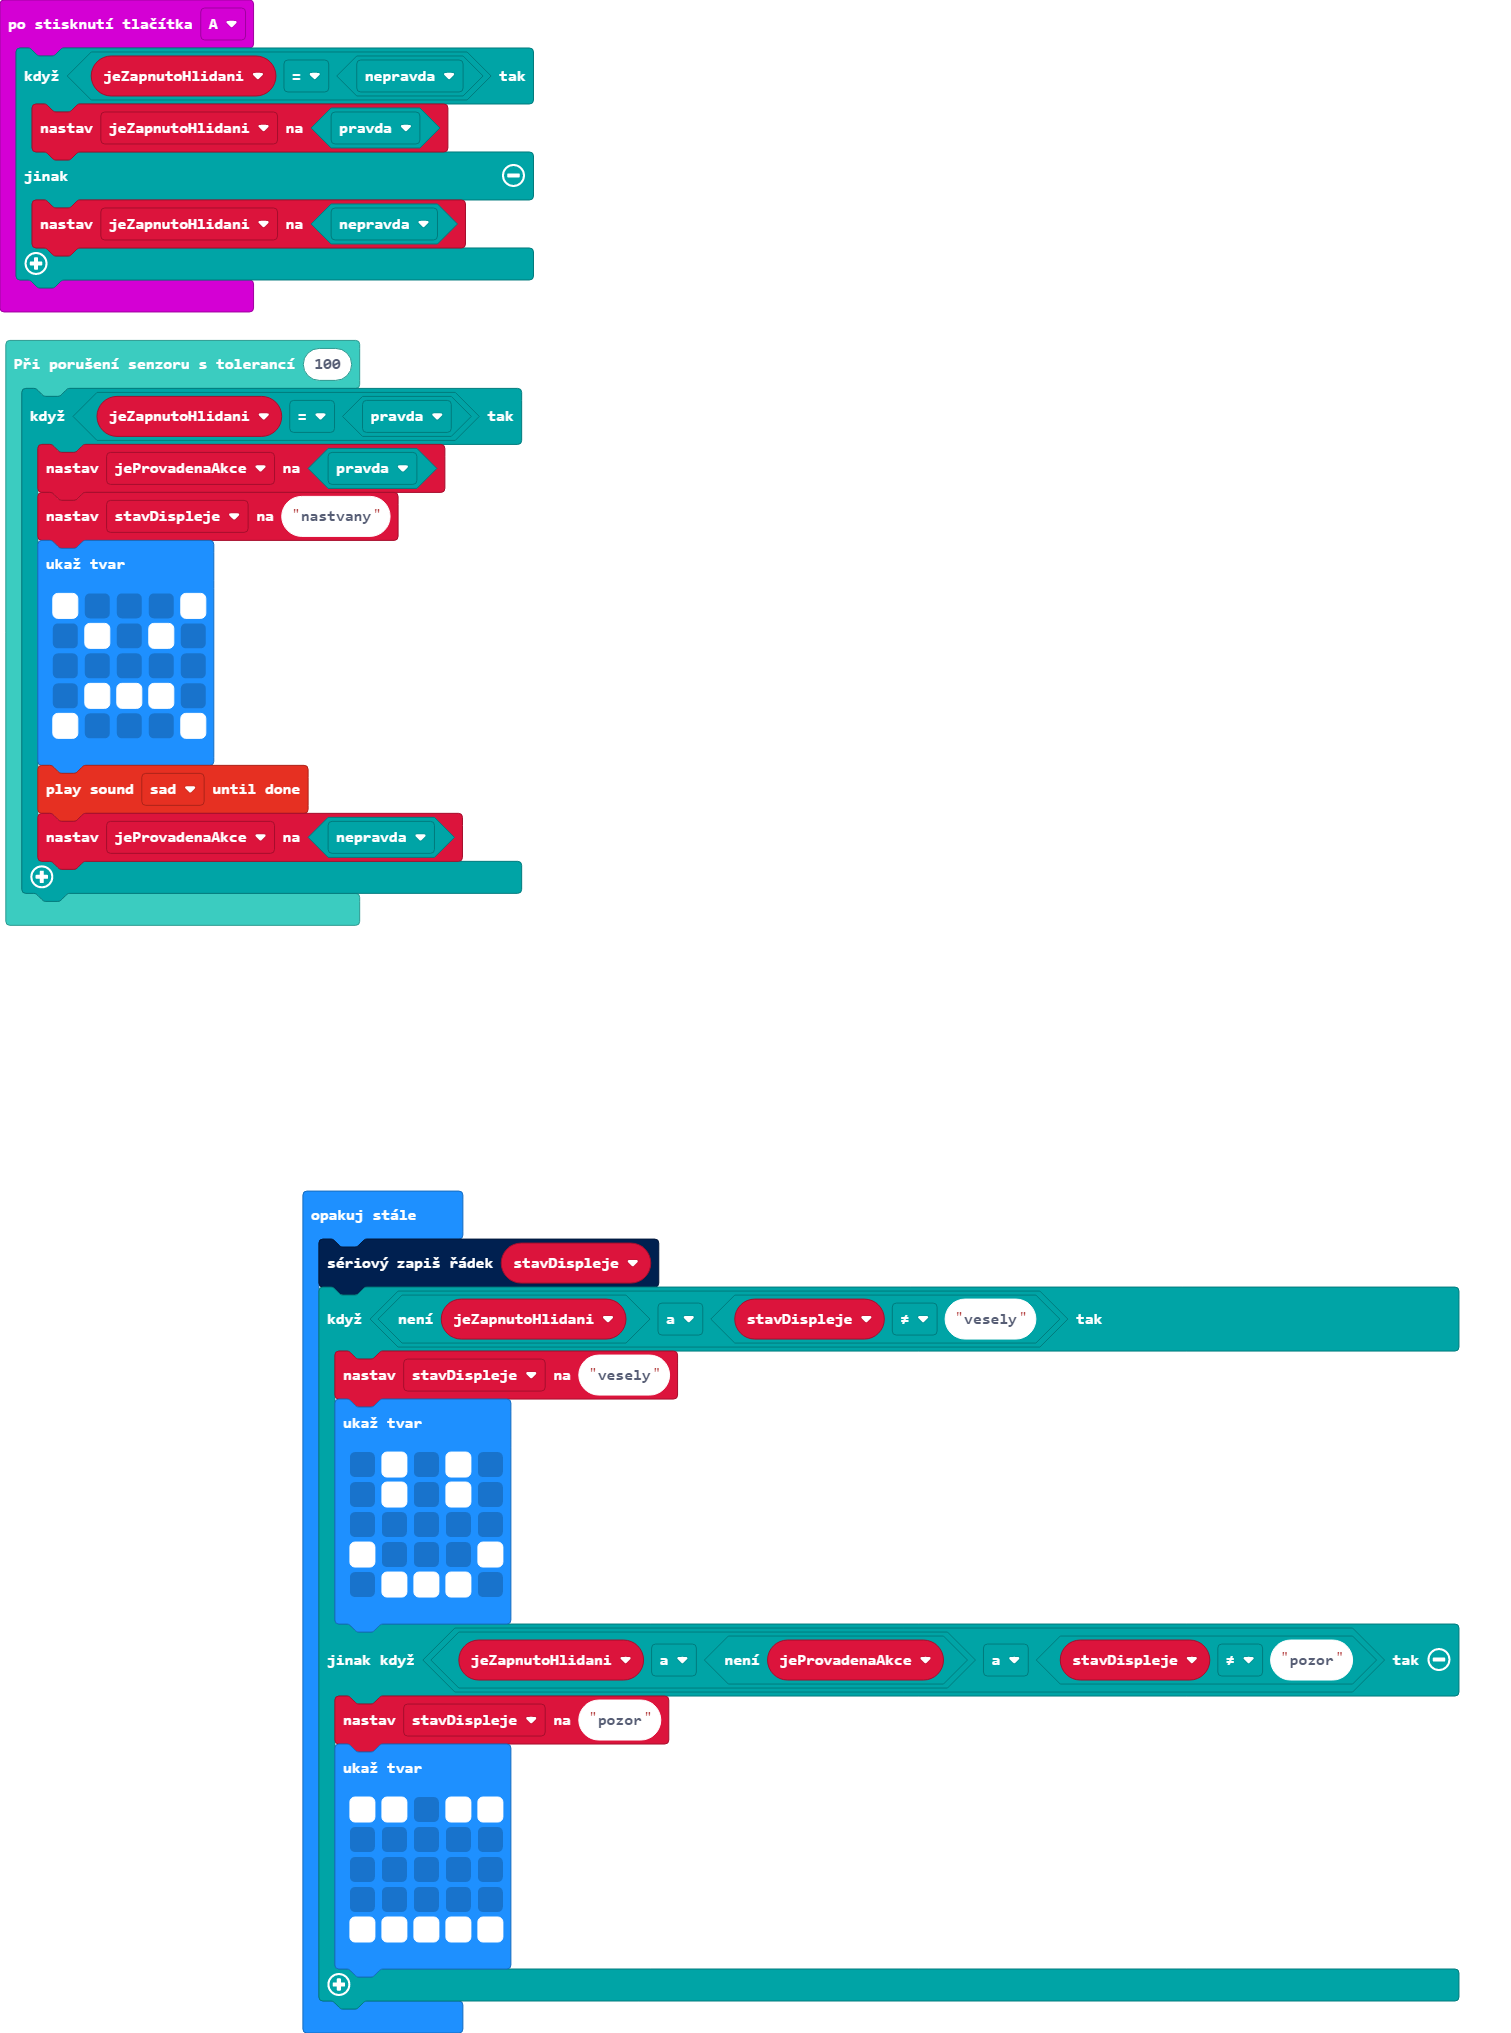
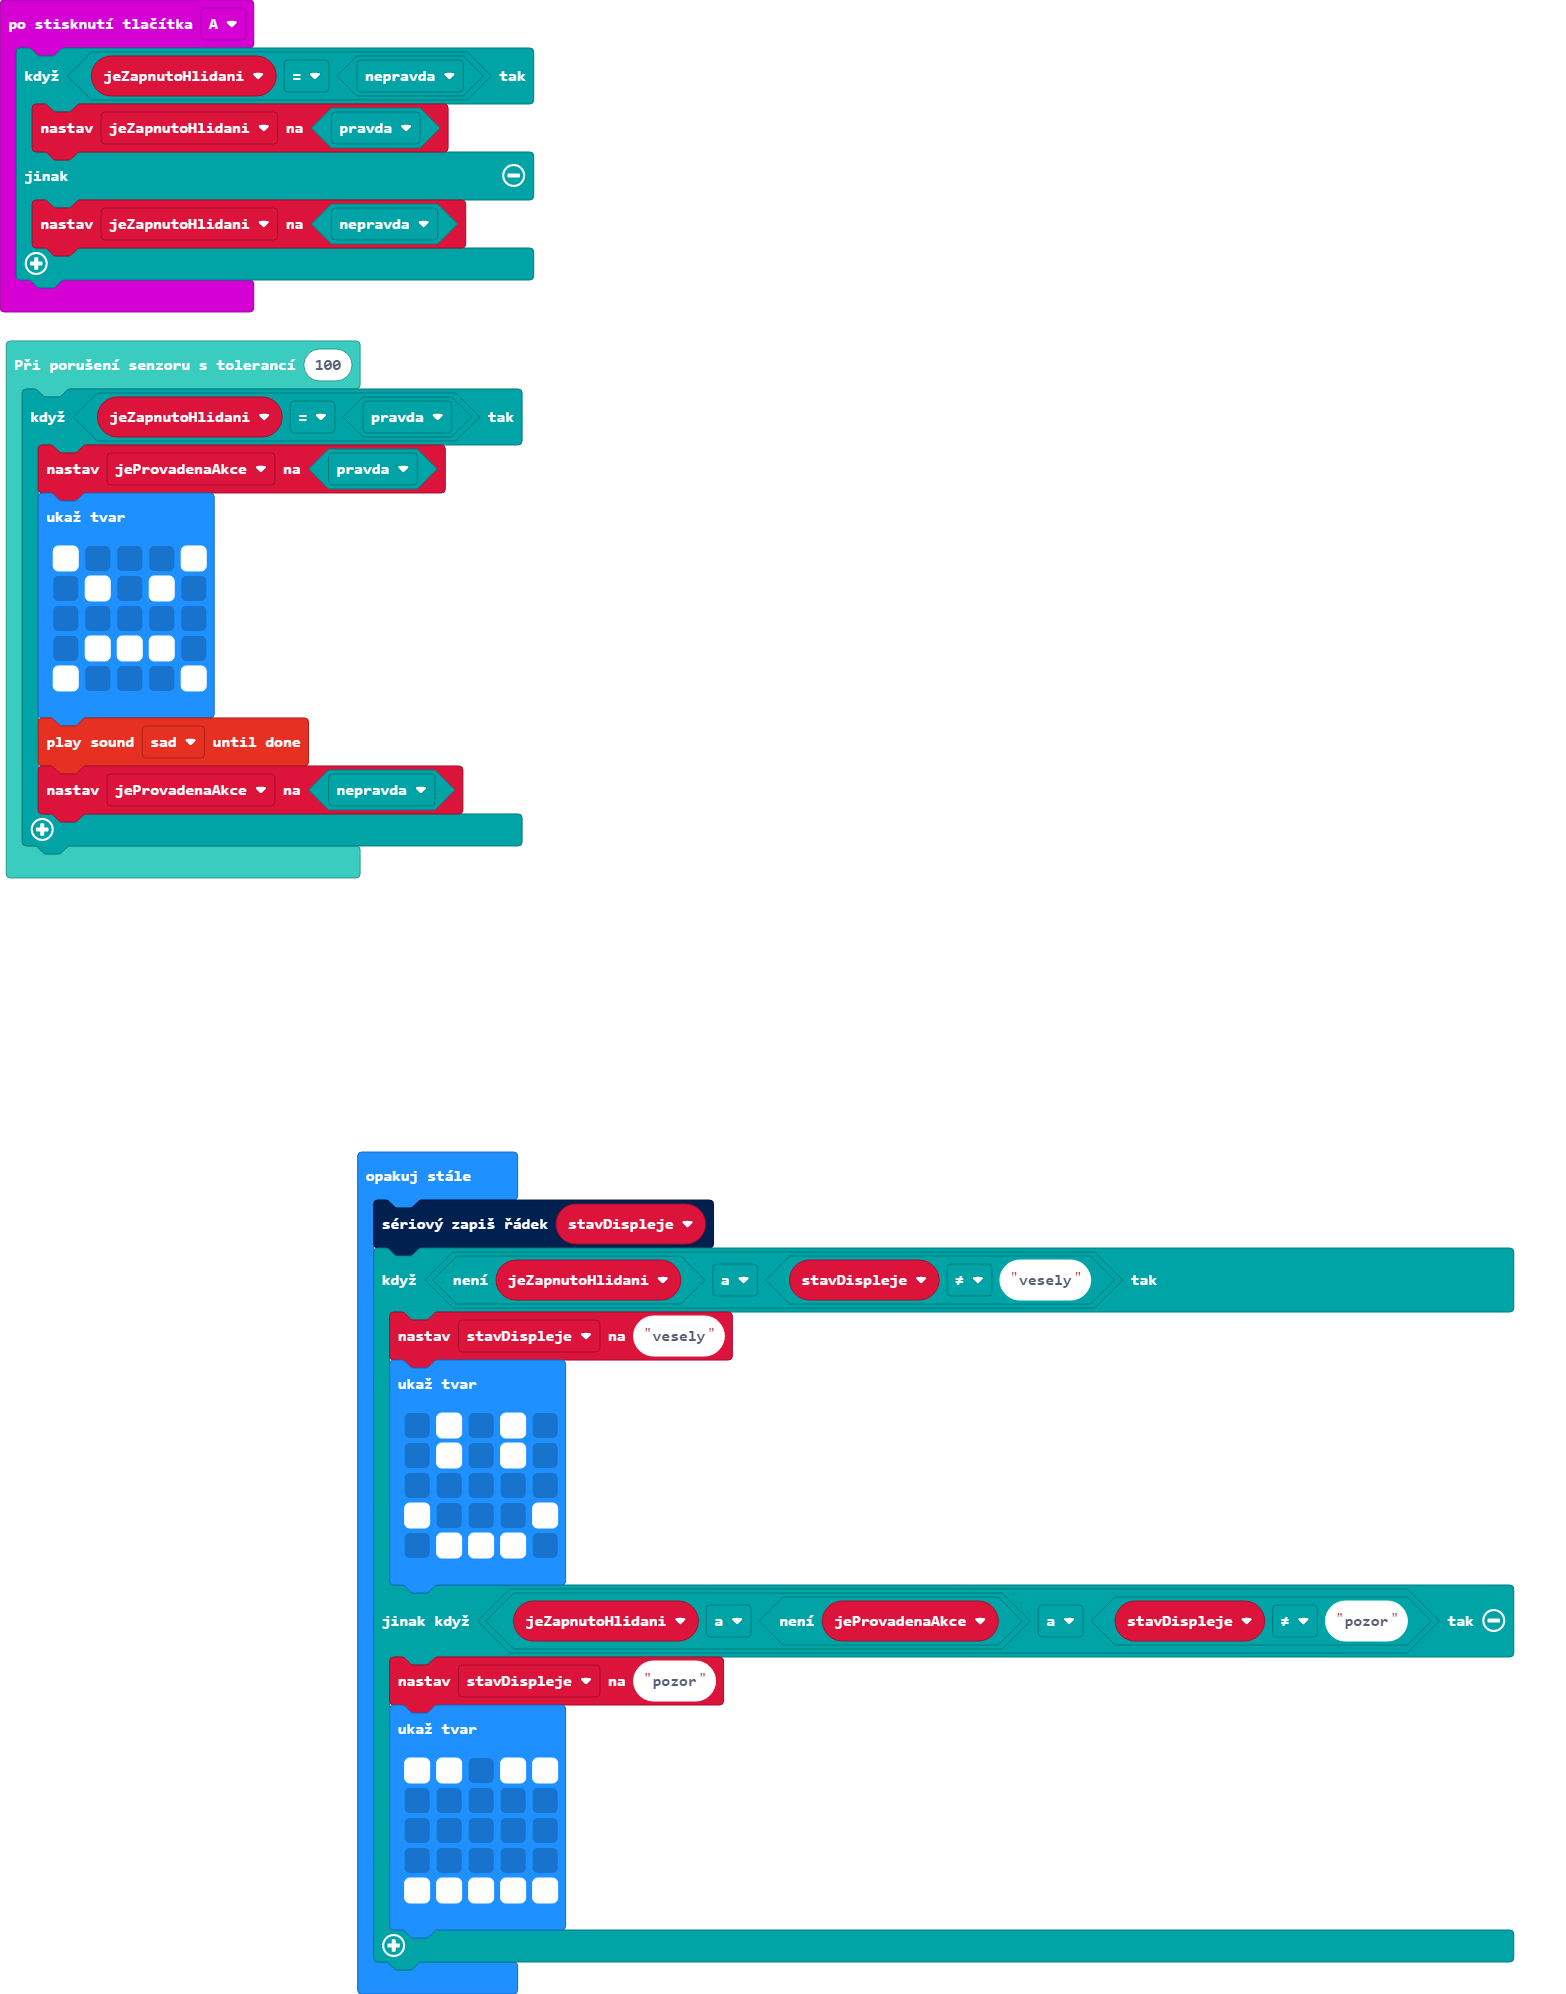
edit for image

Changed region(s): [[0.1866, 0.5597, 0.9643, 1.0], [0.0, 0.0, 0.3733, 0.4664]]

diff --git a/main.ts b/main.ts
@@ -11,7 +11,6 @@ input.onButtonPressed(Button.A, function () {
 Mikado.onGuardAwaken(100, function () {
     if (jeZapnutoHlidani == true) {
         jeProvadenaAkce = true
-        stavDispleje = "nastvany"
         basic.showLeds(`
             # . . . #
             . # . # .
